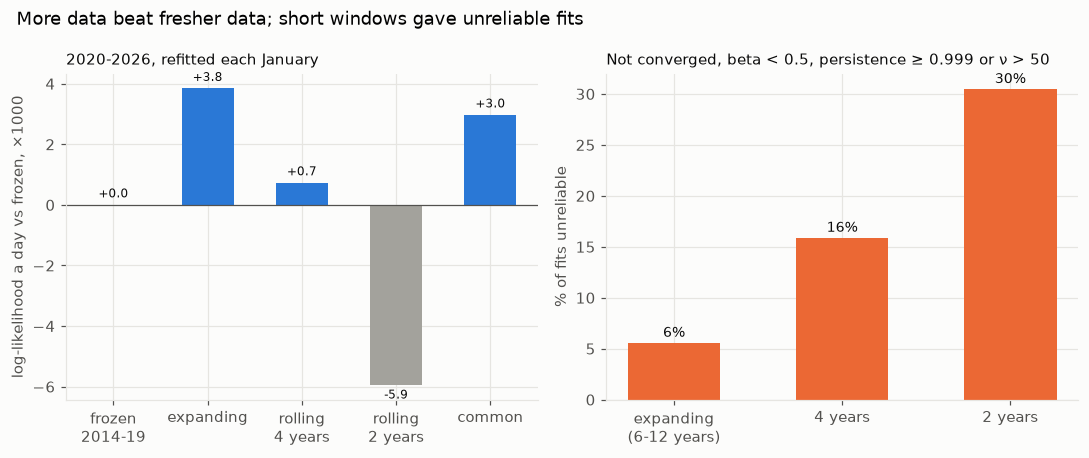
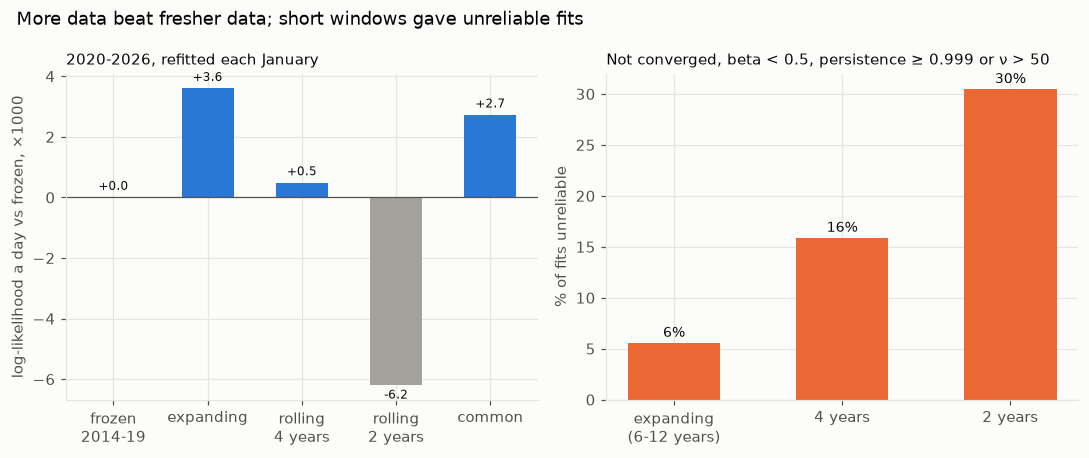
fix: apply the final review: replace unreliable lab fits with common parameters, overflow-safe EGARCH, warmed frozen refits, honest proxy and headline wording, alignment tests

diff --git a/src/gv/lab.html b/src/gv/lab.html
@@ -82,7 +82,7 @@ const GL = $data;
       ["1-day 99% VaR on ₹1 lakh", rupees(var99)],
     ];
     el("gl-stats").innerHTML = stats.map(([k, v]) => `<div><dt>${k}</dt><dd>${v}</dd></div>`).join("");
-    const warn = p.converged ? "" : " The fit did not converge; treat these numbers with care.";
+    const warn = p.fallback ? " This stock's own fit was unreliable, so it is shown with common parameters (the median across stocks) scaled to its own volatility." : "";
     el("gl-note").textContent = `${s}, ${model} with Student-t shocks, fitted on ${day(dates[0])} to ${GL.last}: ` +
       `tomorrow’s volatility ${pct(ann(f[0]))} a year against ${pct(Math.sqrt(GL.per_year) * sd20[n - 1])} from the last 20 days; ` +
       `over the next ${h} days ${pct(ann(avgTo[h - 1]))}.${warn}`;

diff --git a/src/gv/page.html b/src/gv/page.html
@@ -114,7 +114,8 @@ $sections
 </main>
 <footer class="wrap">
 <p>Rebuilt and refitted every week by GitHub Actions from fresh prices. Data: Yahoo Finance
-closes adjusted for splits and dividends, with known errors repaired (see the repository).
+closes adjusted for splits and dividends (NIFTY is a price index), with known errors repaired
+(see the repository).
 Universe: today’s NIFTY 200, so stocks that were dropped or delisted are not in it.</p>
 <p>Research only, not investment advice. Parameters are fitted on the last five years, the same
 years the charts show, so the charts are in-sample.</p>

diff --git a/src/gv/models.py b/src/gv/models.py
@@ -83,8 +83,60 @@ def long_run_variance(params: dict, model: str) -> float:
         return math.nan
     if model == "EGARCH":
         drift = params["omega"] + params["alpha"] * (params["abs_mean"] - SQRT2_OV_PI)
-        return math.exp(drift / (1 - p))
+        return _exp(drift / (1 - p))
     return params["omega"] / (1 - p)
+
+
+def _exp(x: float) -> float:
+    """exp that returns inf instead of raising OverflowError (degenerate EGARCH fits)."""
+    try:
+        return math.exp(x)
+    except OverflowError:
+        return math.inf
+
+
+def sane(params: dict, model: str, sample_var: float) -> bool:
+    """A fit fit for publishing: converged, the reliability rule of gv.refit (beta at least 0.5,
+    persistence below 0.999, nu at most 50), nu above 2.1, a daily mean within ±1%, and a finite
+    long-run variance within 25 times the sample variance."""
+    from gv.refit import unreliable
+
+    if not params.get("converged", False) or unreliable(params):
+        return False
+    if params["nu"] is not None and params["nu"] <= 2.1:
+        return False
+    if abs(params["mu"]) > 1.0:
+        return False
+    lr = long_run_variance(params, model)
+    return bool(math.isfinite(lr) and 0 < lr < 25 * sample_var)
+
+
+DEFAULT_PARAMS = {
+    "GARCH": {"alpha": 0.08, "gamma": 0.0, "beta": 0.90, "nu": 6.0},
+    "GJR": {"alpha": 0.05, "gamma": 0.06, "beta": 0.90, "nu": 6.0},
+    "EGARCH": {"alpha": 0.15, "gamma": -0.03, "beta": 0.97, "nu": 6.0},
+}
+
+
+def common_params(fits: list[dict], model: str, returns_pct, dist: str = "t") -> dict:
+    """Cross-sectional median alpha, gamma, beta, nu of `fits` (DEFAULT_PARAMS if there are none),
+    with mu = the stock's mean and omega set so the long-run variance equals the stock's sample
+    variance (variance targeting)."""
+    y = np.asarray(returns_pct, dtype=float)
+    if fits:
+        med = {k: float(np.median([f[k] for f in fits])) for k in ("alpha", "gamma", "beta", "nu")}
+    else:  # no sound fit to take a median from: textbook values
+        med = DEFAULT_PARAMS[model]
+    p = {"model": model, "dist": dist, "mu": float(y.mean()), "lambda": None, "converged": True}
+    p |= med | dist_moments(dist, med["nu"], None)
+    var = float(y.var())
+    if model == "EGARCH":
+        p["omega"] = (1 - p["beta"]) * math.log(var) - p["alpha"] * (p["abs_mean"] - SQRT2_OV_PI)
+    else:
+        p["persistence"] = persistence(p, model)
+        p["omega"] = var * (1 - p["persistence"])
+    p["persistence"] = persistence(p, model)
+    return p
 
 
 def _tvalue(res, name: str) -> float | None:
@@ -158,7 +210,7 @@ def conditional_variance(returns_pct, params: dict, model: str) -> np.ndarray:
             if t:
                 z = e[t - 1] / math.sqrt(s2[t - 1])
                 lns = om + a * (abs(z) - SQRT2_OV_PI) + g * z + b * lns
-            s2[t] = math.exp(lns)
+            s2[t] = _exp(lns)
         return s2
     s2[0] = om + a * bc + g * 0.5 * bc + b * bc
     for t in range(1, n):
@@ -197,7 +249,7 @@ def forecast_variance(state: dict, params: dict, model: str, horizon: int) -> np
         for h in range(horizon):
             if h:
                 lns = drift + b * lns
-            out[h] = math.exp(lns)
+            out[h] = _exp(lns)
         return out
     out[0] = om + (a + (g if e < 0 else 0.0)) * e * e + b * s2
     p = persistence(params, model)

diff --git a/src/gv/site.py b/src/gv/site.py
@@ -57,6 +57,7 @@ def lab_data(adj: pd.DataFrame, years: int = YEARS) -> dict:
     per_year = (len(dates) - 1) / ((dates[-1] - dates[0]).days / 365.25)
     data, dropped, failed = {}, [], []
     t0 = time.perf_counter()
+    raw = {}
     for s in [INDEX] + SYMBOLS:
         if s not in r or r[s].notna().sum() < MIN_DAYS:
             dropped.append(s)
@@ -65,12 +66,23 @@ def lab_data(adj: pd.DataFrame, years: int = YEARS) -> dict:
         start = int(np.argmax(col.notna().to_numpy()))
         ints = np.round(col.iloc[start:].fillna(0.0).to_numpy() * SCALE).astype(int)
         pct = ints / (SCALE / 100)
+        own = {}
+        for m in models.MODELS:
+            try:
+                f = models.fit(pct, m, DIST)
+            except Exception:  # one bad series must not stop the weekly build
+                f = None
+            own[m] = f if f is not None and models.sane(f, m, float(pct.var())) else None
+        raw[s] = (start, ints, pct, own)
+    good = {m: [o[m] for *_, o in raw.values() if o[m] is not None] for m in models.MODELS}
+    for s, (start, ints, pct, own) in raw.items():
         fits = {}
         for m in models.MODELS:
-            f = models.fit(pct, m, DIST)
-            fits[m] = {k: _round(f[k]) for k in KEEP} | {"converged": f["converged"]}
-            if not f["converged"]:
+            f, fallback = own[m], False
+            if f is None:  # unreliable or failed: common parameters scaled to this stock (gv/03)
+                f, fallback = models.common_params(good[m], m, pct, DIST), True
                 failed.append(f"{s} {m}")
+            fits[m] = {k: _round(f[k]) for k in KEEP} | {"converged": True, "fallback": fallback}
         data[s] = {"start": start, "r": ints.tolist(), "fit": fits}
     seconds = time.perf_counter() - t0
     return {
@@ -107,8 +119,11 @@ down days only. EGARCH works on log variance, with γ times the signed surprise,
 rise of the same size can move volatility differently.</li>
 <li>Estimation: maximum likelihood with Student-t shocks scaled to unit variance, using the
 <code>arch</code> package, on percent returns, refitted on every weekly rebuild. All parameters
-are fitted on the same five years the charts show, so the charts are in-sample. Fits that did not
-converge: {failed}.</li>
+are fitted on the same five years the charts show, so the charts are in-sample. A fit that fails,
+doesn't converge or lands on an edge (β below 0.5, persistence of 0.999 or more, ν at or below
+2.1 or above 50, a daily mean beyond ±1%, or a long-run variance more than 25 times the sample's)
+is replaced by common parameters: the median of the sound fits for that model, scaled to the
+stock's own variance. Replaced this week: {failed}.</li>
 <li>Forecasts: GARCH and GJR forecasts are exact, with each later day moving toward the long-run
 level at the rate of the persistence. GJR’s asymmetry term counts at half weight, because under a
 symmetric t half of the shocks’ variance comes from down days. EGARCH has no closed form beyond

diff --git a/src/gv/reports.py b/src/gv/reports.py
@@ -274,9 +274,11 @@ def report_distributions(out_dir: Path) -> dict:
             extra += f", nu {nf[d]['nu']:.1f}"
         if nf[d]["lambda"] is not None:
             extra += f", lambda {nf[d]['lambda']:+.3f}"
+        kup = _kupiec_fails(nf[d]["breach1"], nf["n_test"], 0.01)
         res[f"NIFTY, {d}"] = (
             f"log-likelihood a day {nf[d]['oos_ll']:.4f}; 1% VaR breached "
-            f"{100 * nf[d]['breach1']:.2f}% of {nf['n_test']} days{extra}"
+            f"{100 * nf[d]['breach1']:.2f}% of {nf['n_test']} days (Kupiec "
+            f"{'rejects' if kup else 'does not reject'}){extra}"
         )
 
     fig, axes = plt.subplots(1, 2, figsize=(10, 4.2), gridspec_kw={"width_ratios": [1, 1.2]})
@@ -464,6 +466,10 @@ def report_har(out_dir: Path) -> dict:
         res[f"QLIKE vs the 20-day variance, {name}"] = ", ".join(
             f"{k} {100 * (q[tgt][k].mean() / base - 1):+.0f}%" for k in FORECASTS[:-1]
         )
+    res["range proxy / squared return, 2020-2026 (median stock)"] = (
+        f"{st['proxy_over_r2'].median():.3f} (10th-90th percentile "
+        f"{st['proxy_over_r2'].quantile(0.1):.3f}-{st['proxy_over_r2'].quantile(0.9):.3f})"
+    )
     res["forecast level / proxy level (median)"] = ", ".join(
         f"{k} {st[f'{k}_bias'].median():.2f}" for k in FORECASTS
     )
@@ -776,6 +782,12 @@ def report_regime(out_dir: Path) -> dict:
     res["beyond NIFTY's GJR (partial rank correlation with next volatility)"] = ", ".join(
         f"{k} {v:.2f}" for k, v in part.items()
     )
+    for given in ("India VIX", "NIFTY 20-day"):
+        res[f"beyond {given} (partial rank correlation with next volatility)"] = ", ".join(
+            f"{k} {partial_rank_corr(d, k, 'next vol', given):.2f}"
+            for k in ("median ratio", "stress share")
+        )
+    res["note on terciles"] = "cut-offs from the whole period (in-sample grouping)"
     d["tercile"] = pd.qcut(d["median ratio"], 3, labels=["calm", "middle", "stressed"])
     g = d.groupby("tercile", observed=True)
     for name, row in g.agg(

diff --git a/tests/test_models.py b/tests/test_models.py
@@ -238,3 +238,51 @@ def test_tvalue_returns_none_when_the_hessian_is_singular():
 
     assert _tvalue(Singular(), "gamma[1]") is None
     assert _tvalue(Singular(), "missing") is None
+
+
+def test_sane_rejects_degenerate_fits_and_common_params_target_the_variance():
+    import numpy as np
+
+    from gv.models import common_params, long_run_variance, sane
+
+    rng = np.random.default_rng(4)
+    y = rng.standard_t(6, 1500)
+    good = {
+        "model": "GJR",
+        "dist": "t",
+        "mu": 0.05,
+        "omega": 0.05,
+        "alpha": 0.05,
+        "gamma": 0.05,
+        "beta": 0.88,
+        "nu": 6.0,
+        "lambda": None,
+        "converged": True,
+        "asym_weight": 0.5,
+        "abs_mean": 0.75,
+    }
+    from gv.models import persistence
+
+    good["persistence"] = persistence(good, "GJR")
+    assert sane(good, "GJR", float(y.var()))
+    bad = dict(good, mu=-34.0)
+    assert not sane(bad, "GJR", float(y.var()))
+    egarch = {
+        "model": "EGARCH",
+        "dist": "t",
+        "mu": 0.0,
+        "omega": 50.0,
+        "alpha": -25.5,
+        "gamma": 110.6,
+        "beta": 0.0,
+        "nu": 2.05,
+        "lambda": None,
+        "converged": True,
+        "asym_weight": 0.5,
+        "abs_mean": 0.9,
+        "persistence": 0.0,
+    }
+    assert not sane(egarch, "EGARCH", float(y.var()))
+    for model in ("GARCH", "GJR", "EGARCH"):
+        c = common_params([good, dict(good, alpha=0.07)], model, y)
+        assert np.isclose(long_run_variance(c, model), y.var(), rtol=1e-9)

diff --git a/src/gv/har.py b/src/gv/har.py
@@ -1,8 +1,10 @@
 """HAR on range-based daily variance against GARCH-family and simple forecasts, one day ahead.
 
 Daily "realised" variance without intraday data: the Garman-Klass range estimator for the trading
-day plus the squared overnight gap, ln(open / previous close)^2, in percent squared. It is noisy but
-unbiased enough to rank forecasts (Patton's QLIKE ranks correctly with any unbiased proxy).
+day plus the squared overnight gap, ln(open / previous close)^2, in percent squared. It is less
+noisy than the squared return but runs above it on average (median 1.17 times for these stocks in
+2020-2026), and HAR is fitted to it, so rankings against it favour HAR; rankings against the
+squared return are the fairer test.
 
 Models, all fitted on the formation years and frozen through the test years:
 - HAR (log): log rv(t+1) = b0 + b1 log rv(t) + b2 log mean5(t) + b3 log mean22(t), by least squares;
@@ -111,6 +113,7 @@ def study_stock(o, h, lo, c, form_end, test_start) -> dict | None:
     rvt, r2 = rv.loc[frame.index].to_numpy(), (r.loc[frame.index] ** 2).to_numpy()
     r2 = np.clip(r2, 1e-3 * np.median(rvt), None)
     out = {
+        "proxy_over_r2": float(rvt.mean() / (r.loc[frame.index] ** 2).mean()),
         "days": len(frame),
         "converged": ok1 and ok2,
         "b_daily": hp["b"][1],

diff --git a/src/gv/sizing.py b/src/gv/sizing.py
@@ -1,12 +1,13 @@
 """Does a better volatility forecast pay? Two uses, monthly, after costs.
 
 A. Sizing by risk: each month-end, hold that day's top-200 universe with weights in proportion to
-   1 / forecast volatility (22-day forecasts from gv.horizons), against equal weights. A stock with
-   no price at the next month-end earns 0 that month (sold at its last price). Costs: delivery
-   charges and slippage per rupee traded on each side (`COST`), on the change from the drifted
-   weights.
+   1 / forecast volatility (22-day forecasts from gv.horizons), against equal weights. A stock that
+   stops trading during a month earns its return to its last price, then 0 (sold there). Costs:
+   delivery charges and slippage per rupee traded on each side (`COST`), on the change from the
+   drifted weights.
 B. Volatility targeting: hold NIFTY (price index) at exposure min(cap, target / forecast volatility)
-   for the next month, the rest in cash at 6.5% a year; costs per rupee of exposure changed.
+   for the next month, the rest in cash at 6.5% a year (exposure above 1 is financed at the same
+   flat rate, with no spread); costs per rupee of exposure changed.
 """
 
 import numpy as np

diff --git a/tests/test_sizing.py b/tests/test_sizing.py
@@ -1,0 +1,26 @@
+import numpy as np
+import pandas as pd
+
+from gv.sizing import inverse_vol, vol_target
+
+
+def test_vol_target_uses_the_month_end_exposure_from_the_next_day():
+    idx = pd.bdate_range("2020-01-01", "2020-03-31")
+    r = pd.Series(0.01, index=idx)
+    me = pd.DatetimeIndex([pd.Timestamp("2020-01-31"), pd.Timestamp("2020-02-28")])
+    fc = pd.Series([0.24, 0.06], index=me)  # exposure 0.5, then 1.5 (cap)
+    out = vol_target(r, fc, target=0.12, cap=1.5, rf=0.0, cost=0.0)
+    assert (
+        pd.Timestamp("2020-01-31") not in out.index
+    )  # decided at that close, held from the next day
+    assert out.loc["2020-02-03", "exposure"] == 0.5
+    assert out.loc["2020-03-02", "exposure"] == 1.5
+
+
+def test_inverse_vol_weights_and_next_month_dating():
+    me = pd.DatetimeIndex(["2020-01-31", "2020-02-28", "2020-03-31"])
+    rets = pd.DataFrame({"A": [0.10, 0.0, 0.0], "B": [0.0, 0.0, 0.0]}, index=me)
+    fc = pd.DataFrame({"A": [1.0, 1.0], "B": [4.0, 4.0]}, index=me[:2])  # sd 1 and 2
+    out = inverse_vol(fc, rets, cost=0.0)
+    assert out["net"].index[0] == me[1]
+    assert np.isclose(out["net"].iloc[0], (2 / 3) * 0.10)

diff --git a/src/gv/refit.py b/src/gv/refit.py
@@ -82,7 +82,8 @@ def run(
         four = [p for (s, n), (p, _) in year_fits.items() if n == "rolling 4y"]
         med = {k: float(np.median([p[k] for p in four])) for k in ("alpha", "gamma", "beta", "nu")}
         for s, r in returns.items():
-            plans = {"frozen": (frozen[s], _window(2014, 2019))}
+            # frozen: 2014-2019 parameters, recursion warmed through every day before year Y
+            plans = {"frozen": (frozen[s], _window(2014, year - 1))}
             for name in ("expanding", "rolling 4y", "rolling 2y"):
                 if (s, name) in year_fits:
                     plans[name] = year_fits[(s, name)]

diff --git a/src/gv/asym.py b/src/gv/asym.py
@@ -5,7 +5,8 @@ Formation = calendar years `fit_years`, test = `test_years`. Stocks are the univ
 the formation's last day with returns on at least `min_cover` of the formation days. Each is fitted
 on the formation with Student-t shocks, then scored on the test days with every parameter frozen
 (the variance recursion runs through the formation days first, so it is warmed up). Stocks that stop
-trading are scored on the test days they have.
+trading are scored on the test days they have if they have at least 250; two of the formation
+stocks have fewer and are left out (selection on future survival, small).
 """
 
 import numpy as np

diff --git a/scripts/build_site.py b/scripts/build_site.py
@@ -22,7 +22,7 @@ def main() -> None:
         f"built in {time.perf_counter() - t0:.1f} s"
     )
     print(f"dropped (under the minimum history): {data['dropped'] or 'none'}")
-    print(f"fits that did not converge: {data['failed'] or 'none'}")
+    print(f"fits replaced by common parameters: {data['failed'] or 'none'}")
 
 
 if __name__ == "__main__":
